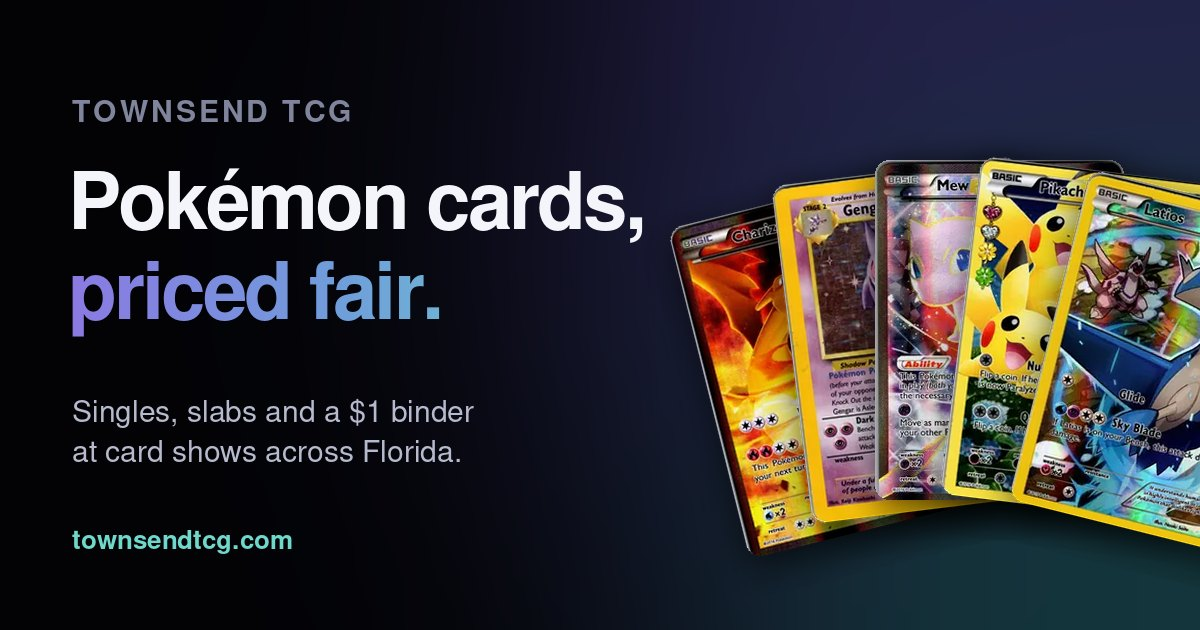
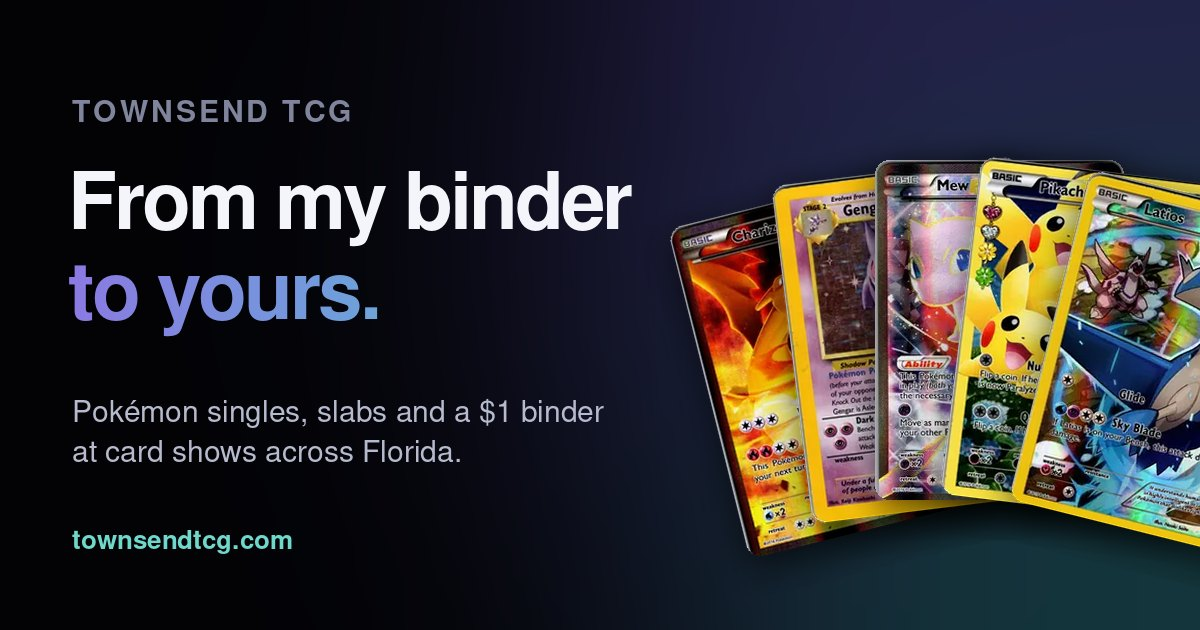
Preview v2: hero headline "From my binder / to yours."

Changed region(s): [[0.0617, 0.2714, 0.555, 0.3921], [0.0617, 0.3921, 0.37, 0.5429], [0.0617, 0.6333, 0.4933, 0.6937]]

diff --git a/preview/index.html b/preview/index.html
@@ -323,8 +323,8 @@ button { font: inherit; color: inherit; background: none; border: 0; cursor: poi
     </div>
     <div class="wrap hero-in" id="hero-in">
       <a class="chip" href="#shows" id="next-chip" data-r style="--i:0"><span class="dot" aria-hidden="true"></span><span class="txt" id="next-txt">See where we'll be next</span></a>
-      <h1 id="hero-title" class="h-xl"><span class="line" style="--i:0"><span>Pokémon cards,</span></span><span class="line" style="--i:1"><span class="grad">priced fair.</span></span></h1>
-      <p class="lede" data-r style="--i:3">Singles, slabs and a $1 binder at card shows across Florida. Found something at the table? Pay in seconds.</p>
+      <h1 id="hero-title" class="h-xl"><span class="line" style="--i:0"><span>From my binder</span></span><span class="line" style="--i:1"><span class="grad">to yours.</span></span></h1>
+      <p class="lede" data-r style="--i:3">Pokémon singles, slabs and a $1 binder at card shows across Florida. Found something at the table? Pay in seconds.</p>
       <div class="ctas" data-r style="--i:4">
         <a class="btn btn-primary" href="#pay">Pay now <svg viewBox="0 0 24 24" fill="none" stroke="currentColor" stroke-width="2.4" stroke-linecap="round" stroke-linejoin="round" aria-hidden="true"><path d="M5 12h14M13 6l6 6-6 6"/></svg></a>
         <a class="btn btn-glass" href="#shows">Show schedule</a>
